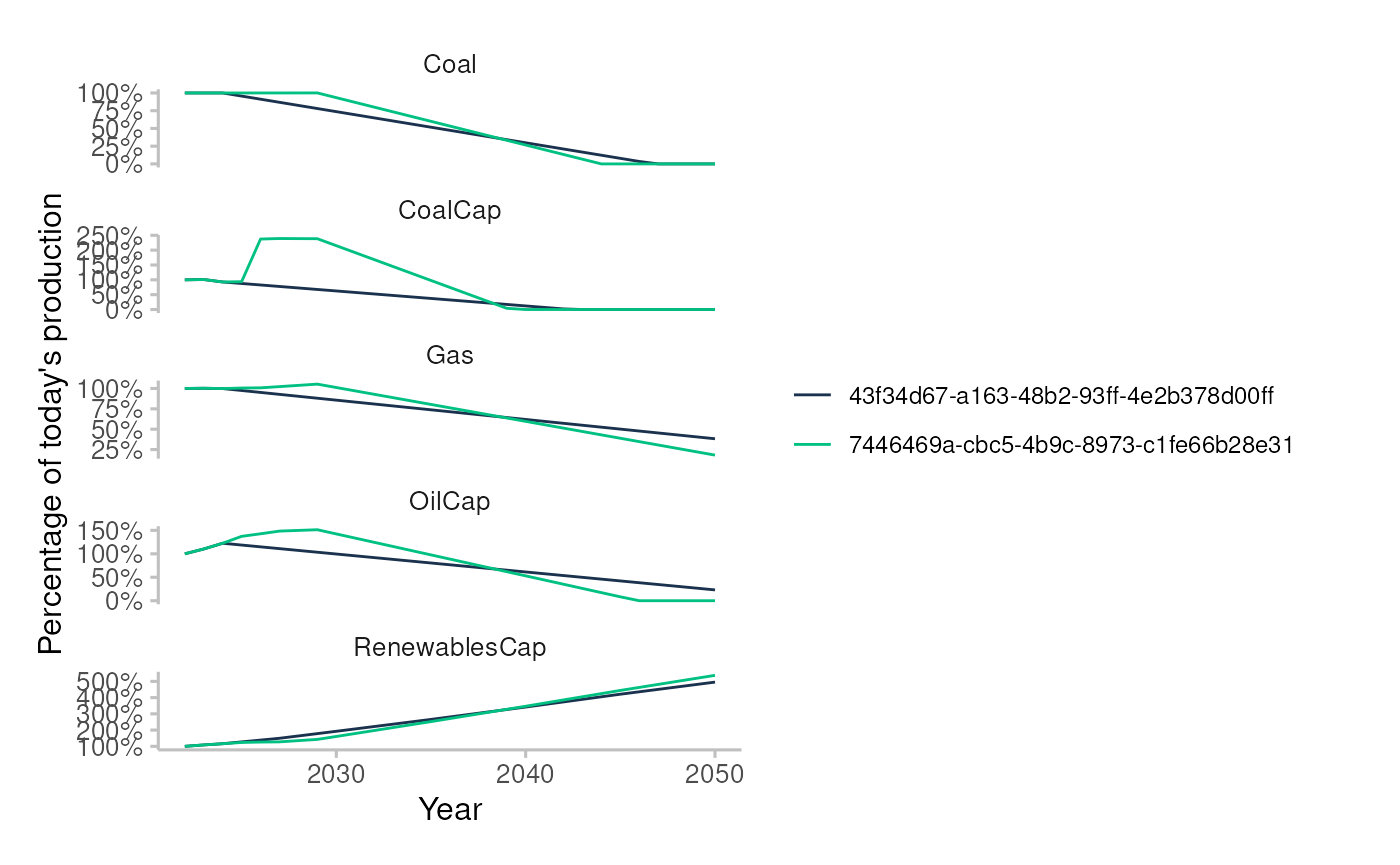
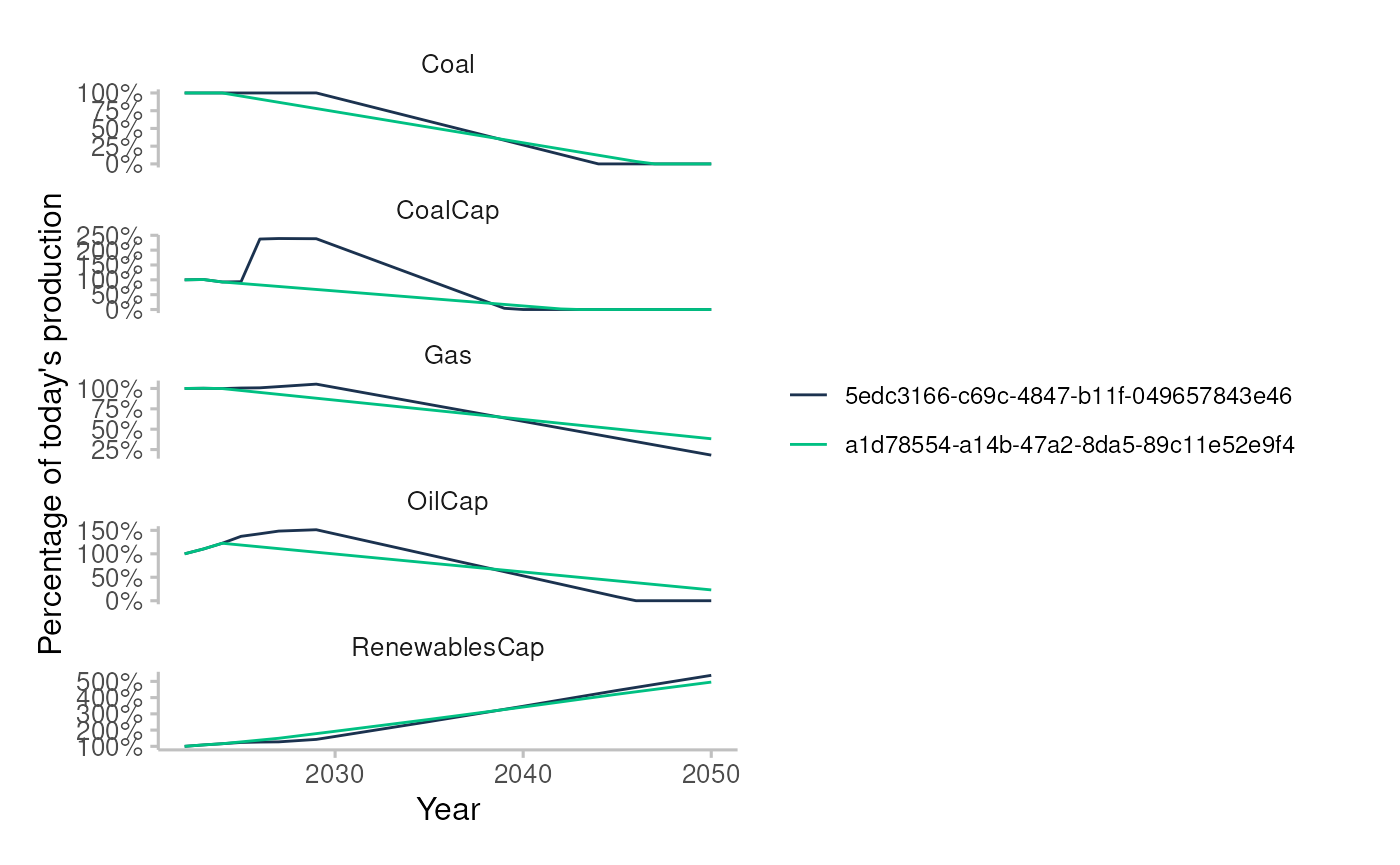
Deploying to gh-pages from @ Theia-Finance-Labs/trisk.analysis@5e66fabae8052ffa982ce75706a7dbf454fffdfd 🚀

diff --git a/articles/run-country-sensitivity-analysis.html b/articles/run-country-sensitivity-analysis.html
@@ -166,7 +166,7 @@ net_present_value_shock
 <tbody>
 <tr>
 <td style="text-align:left;">
-7446469a-cbc5-4b9c-8973-c1fe66b28e31
+5edc3166-c69c-4847-b11f-049657843e46
 </td>
 <td style="text-align:right;">
 101
@@ -195,7 +195,7 @@ Gas
 </tr>
 <tr>
 <td style="text-align:left;">
-7446469a-cbc5-4b9c-8973-c1fe66b28e31
+5edc3166-c69c-4847-b11f-049657843e46
 </td>
 <td style="text-align:right;">
 102
@@ -224,7 +224,7 @@ Coal
 </tr>
 <tr>
 <td style="text-align:left;">
-7446469a-cbc5-4b9c-8973-c1fe66b28e31
+5edc3166-c69c-4847-b11f-049657843e46
 </td>
 <td style="text-align:right;">
 103
@@ -253,7 +253,7 @@ Gas
 </tr>
 <tr>
 <td style="text-align:left;">
-7446469a-cbc5-4b9c-8973-c1fe66b28e31
+5edc3166-c69c-4847-b11f-049657843e46
 </td>
 <td style="text-align:right;">
 104
@@ -282,7 +282,7 @@ RenewablesCap
 </tr>
 <tr>
 <td style="text-align:left;">
-7446469a-cbc5-4b9c-8973-c1fe66b28e31
+5edc3166-c69c-4847-b11f-049657843e46
 </td>
 <td style="text-align:right;">
 105
@@ -311,7 +311,7 @@ CoalCap
 </tr>
 <tr>
 <td style="text-align:left;">
-7446469a-cbc5-4b9c-8973-c1fe66b28e31
+5edc3166-c69c-4847-b11f-049657843e46
 </td>
 <td style="text-align:right;">
 105
@@ -374,7 +374,7 @@ pd_shock
 <tbody>
 <tr>
 <td style="text-align:left;">
-7446469a-cbc5-4b9c-8973-c1fe66b28e31
+5edc3166-c69c-4847-b11f-049657843e46
 </td>
 <td style="text-align:right;">
 101
@@ -397,7 +397,7 @@ Oil&amp;Gas
 </tr>
 <tr>
 <td style="text-align:left;">
-7446469a-cbc5-4b9c-8973-c1fe66b28e31
+5edc3166-c69c-4847-b11f-049657843e46
 </td>
 <td style="text-align:right;">
 101
@@ -420,7 +420,7 @@ Oil&amp;Gas
 </tr>
 <tr>
 <td style="text-align:left;">
-7446469a-cbc5-4b9c-8973-c1fe66b28e31
+5edc3166-c69c-4847-b11f-049657843e46
 </td>
 <td style="text-align:right;">
 101
@@ -443,7 +443,7 @@ Oil&amp;Gas
 </tr>
 <tr>
 <td style="text-align:left;">
-7446469a-cbc5-4b9c-8973-c1fe66b28e31
+5edc3166-c69c-4847-b11f-049657843e46
 </td>
 <td style="text-align:right;">
 101
@@ -466,7 +466,7 @@ Oil&amp;Gas
 </tr>
 <tr>
 <td style="text-align:left;">
-7446469a-cbc5-4b9c-8973-c1fe66b28e31
+5edc3166-c69c-4847-b11f-049657843e46
 </td>
 <td style="text-align:right;">
 101
@@ -489,7 +489,7 @@ Oil&amp;Gas
 </tr>
 <tr>
 <td style="text-align:left;">
-7446469a-cbc5-4b9c-8973-c1fe66b28e31
+5edc3166-c69c-4847-b11f-049657843e46
 </td>
 <td style="text-align:right;">
 102
@@ -591,7 +591,7 @@ discounted_net_profits_shock_scenario
 <tbody>
 <tr>
 <td style="text-align:left;">
-7446469a-cbc5-4b9c-8973-c1fe66b28e31
+5edc3166-c69c-4847-b11f-049657843e46
 </td>
 <td style="text-align:right;">
 101
@@ -659,7 +659,7 @@ Gas
 </tr>
 <tr>
 <td style="text-align:left;">
-7446469a-cbc5-4b9c-8973-c1fe66b28e31
+5edc3166-c69c-4847-b11f-049657843e46
 </td>
 <td style="text-align:right;">
 101
@@ -727,7 +727,7 @@ Gas
 </tr>
 <tr>
 <td style="text-align:left;">
-7446469a-cbc5-4b9c-8973-c1fe66b28e31
+5edc3166-c69c-4847-b11f-049657843e46
 </td>
 <td style="text-align:right;">
 101
@@ -795,7 +795,7 @@ Gas
 </tr>
 <tr>
 <td style="text-align:left;">
-7446469a-cbc5-4b9c-8973-c1fe66b28e31
+5edc3166-c69c-4847-b11f-049657843e46
 </td>
 <td style="text-align:right;">
 101
@@ -863,7 +863,7 @@ Gas
 </tr>
 <tr>
 <td style="text-align:left;">
-7446469a-cbc5-4b9c-8973-c1fe66b28e31
+5edc3166-c69c-4847-b11f-049657843e46
 </td>
 <td style="text-align:right;">
 101
@@ -931,7 +931,7 @@ Gas
 </tr>
 <tr>
 <td style="text-align:left;">
-7446469a-cbc5-4b9c-8973-c1fe66b28e31
+5edc3166-c69c-4847-b11f-049657843e46
 </td>
 <td style="text-align:right;">
 101
@@ -1075,7 +1075,7 @@ no_carbon_tax
 0
 </td>
 <td style="text-align:left;">
-7446469a-cbc5-4b9c-8973-c1fe66b28e31
+5edc3166-c69c-4847-b11f-049657843e46
 </td>
 </tr>
 <tr>
@@ -1110,7 +1110,7 @@ no_carbon_tax
 0
 </td>
 <td style="text-align:left;">
-43f34d67-a163-48b2-93ff-4e2b378d00ff
+a1d78554-a14b-47a2-8da5-89c11e52e9f4
 </td>
 </tr>
 </tbody>

diff --git a/index.html b/index.html
@@ -102,13 +102,14 @@
 <h2 id="usecases">Usecases<a class="anchor" aria-label="anchor" href="#usecases"></a>
 </h2>
 <div class="section level3">
-<h3 id="sensitivity-analysis">Sensitivity analysis<a class="anchor" aria-label="anchor" href="#sensitivity-analysis"></a>
-</h3>
-<p>Example showcased in the <a href="https://theia-finance-labs.github.io/trisk.analysis/articles/sensitivity-analysis.html" class="external-link">Sensitivity analysis Vignette</a></p>
-</div>
-<div class="section level3">
 <h3 id="potfolio-analysis">Potfolio analysis<a class="anchor" aria-label="anchor" href="#potfolio-analysis"></a>
 </h3>
+<p>Example showcased in the <a href="%5Bhttps://theia-finance-labs.github.io/trisk.analysis/articles/apply-trisk-on-portfolio.html%5D(https://theia-finance-labs.github.io/trisk.analysis/articles/apply-stress-test-on-portfolio.html)" class="external-link">Portfolio analysis vignette</a></p>
+</div>
+<div class="section level3">
+<h3 id="sensitivity-analysis">Sensitivity analysis<a class="anchor" aria-label="anchor" href="#sensitivity-analysis"></a>
+</h3>
+<p>Example showcased in the <a href="https://theia-finance-labs.github.io/trisk.analysis/articles/sensitivity-analysis.html" class="external-link">Sensitivity analysis vignette</a></p>
 </div>
 </div>
 </div>

diff --git a/articles/apply-stress-test-on-portfolio.html b/articles/apply-stress-test-on-portfolio.html
@@ -324,7 +324,7 @@ DE
 101
 </td>
 <td style="text-align:left;">
-443e41d4-d988-4df4-a2c1-b7d258120aef
+4e884b8c-668e-49a0-ab8f-b2a0207e7b16
 </td>
 <td style="text-align:left;">
 101
@@ -371,7 +371,7 @@ DE
 102
 </td>
 <td style="text-align:left;">
-443e41d4-d988-4df4-a2c1-b7d258120aef
+4e884b8c-668e-49a0-ab8f-b2a0207e7b16
 </td>
 <td style="text-align:left;">
 102
@@ -465,7 +465,7 @@ DE
 104
 </td>
 <td style="text-align:left;">
-443e41d4-d988-4df4-a2c1-b7d258120aef
+4e884b8c-668e-49a0-ab8f-b2a0207e7b16
 </td>
 <td style="text-align:left;">
 104
